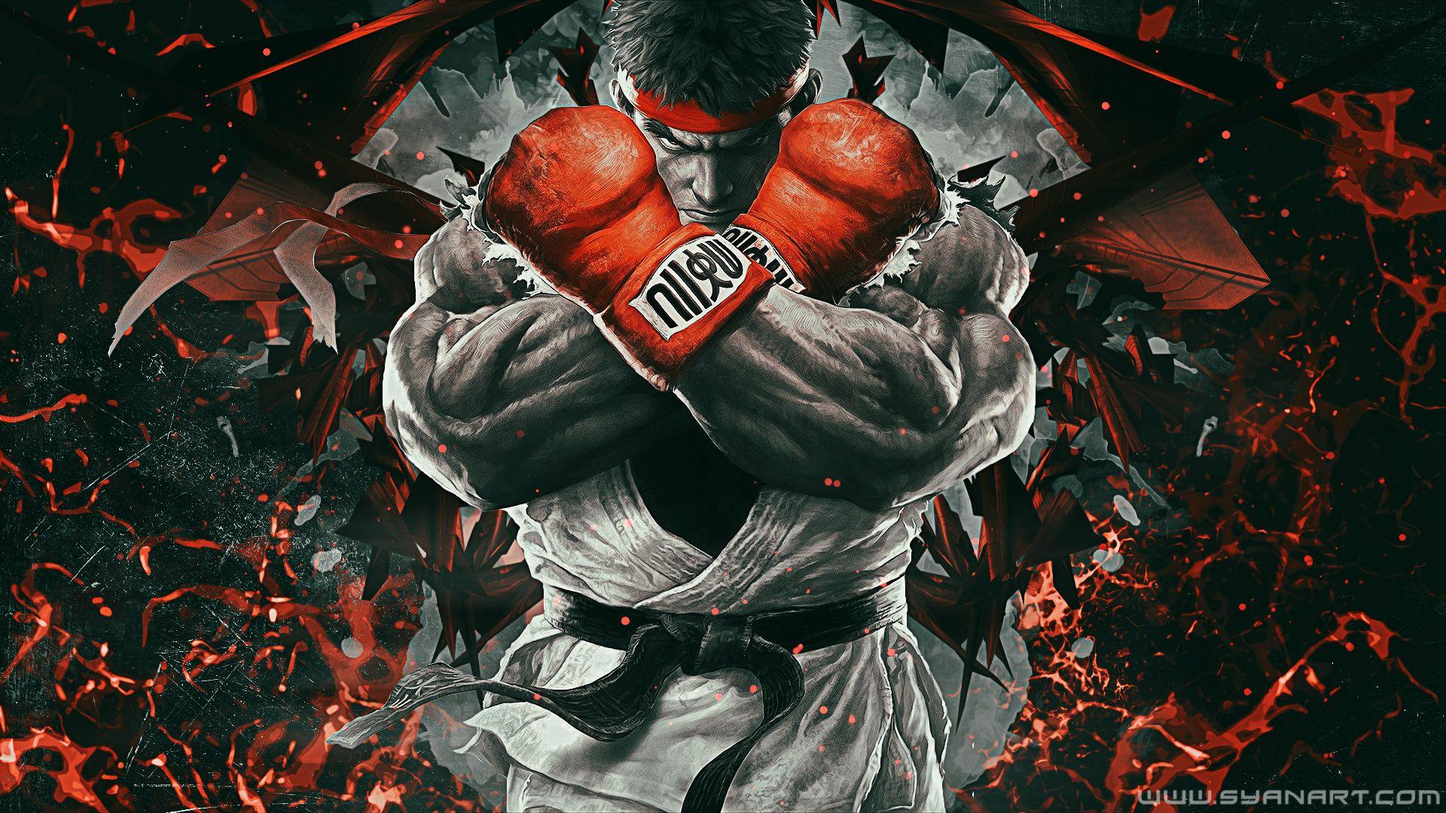
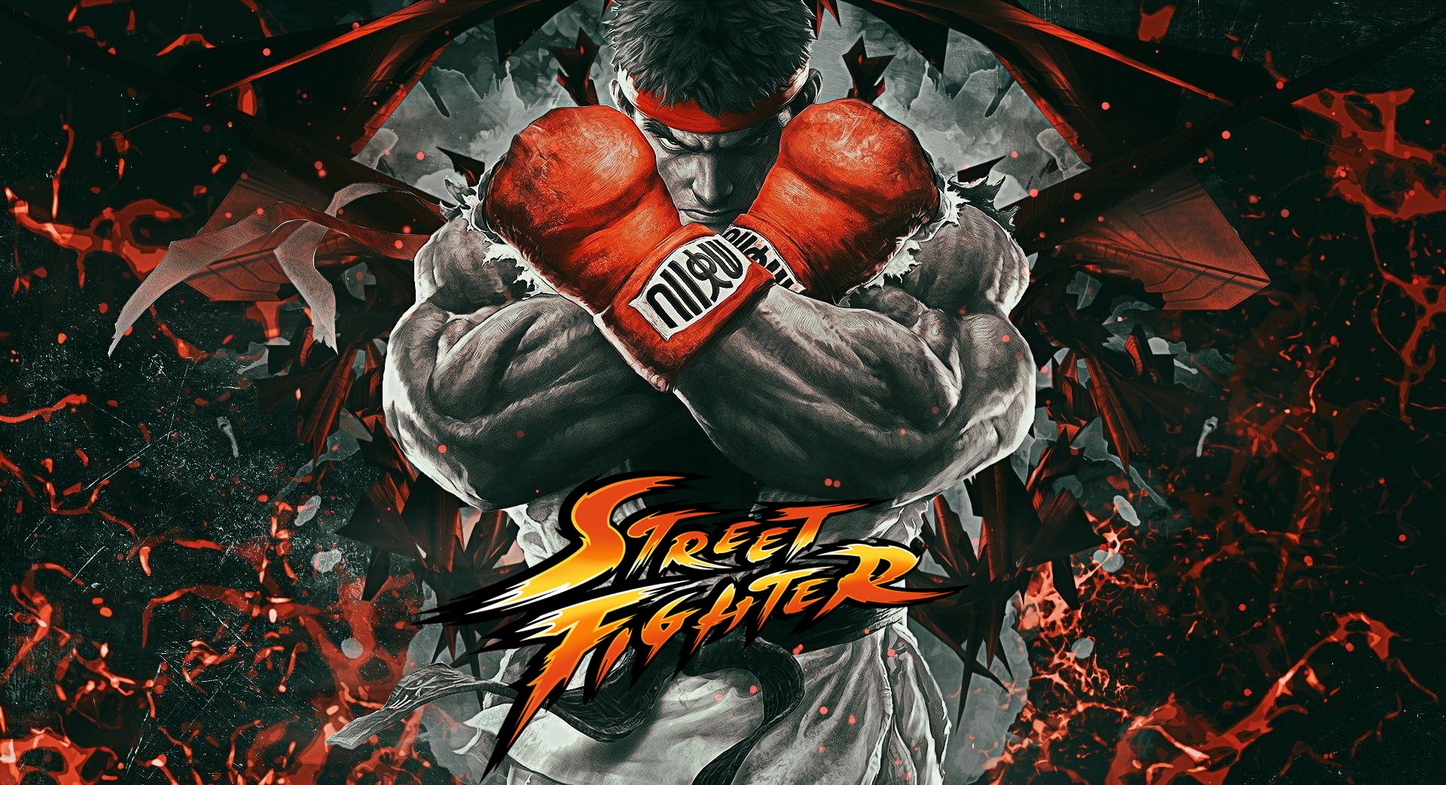
Added start page

diff --git a/JavaScript/script.js b/JavaScript/script.js
@@ -671,7 +671,7 @@ function animate() {
         ctx.drawImage(playerImage, framex, framey, spriteWidth, spriteHeight, 50, 50, CANVAS_WIDTH - 50, CANVAS_HEIGHT - 50);
         ctx2.drawImage(playerImage2, framex2, framey2, spriteWidth2, spriteHeight2, 50, 50, CANVAS_WIDTH - 50, CANVAS_HEIGHT - 50);
         canvas2.style.transform = "scale(-1,1)";
-        
+
         update();
     }
 
@@ -719,18 +719,17 @@ function propertiesDisplayNormal() {
     playerOneName.style.display = 'block';
     playerTwoName.style.display = 'block';
     readyWinContainer.style.display = 'flex';
-    // startPage.style.display = 'none';
+    startPage.style.display = 'none';
     animate();
-    startTimer();    
+    startTimer();
 }
 
-propertiesDisplayNormal();
+// propertiesDisplayNormal();
 
-// window.addEventListener('keydown', (e) => {
-//     if(e.key == 'p') {
-//         propertiesDisplayNormal();
-//     }
-// })
+startPage.addEventListener('click', (e) => {
+
+    propertiesDisplayNormal();
+})
 
 
 // animate();

diff --git a/stylesheet/styles.css b/stylesheet/styles.css
@@ -143,6 +143,33 @@ body {
 
 /* Start Page */
 
+#start-page {
+    position: absolute;
+    width: 100%;
+    height: 100%;
+    background: url(/images/startPage/startPageBackground.jpg);
+    background-size: 100%;
+}
+
+#start-page p {
+    color: white;
+    text-align: center;
+    font-size: xx-large;
+    font-family: 'Press Start 2P', cursive;
+    /* color: rgb(226, 59, 87); */
+    color: orange;
+
+}
+
+@keyframes fade-inout{
+    0% {opacity: 1;}
+    100%{opacity: 0;}
+}
+
+#start-page p {
+    animation: fade-inout 1.5s infinite alternate;
+}
+
 /* #start-page {
     position: absolute;
     width: 100%;

diff --git a/index.html b/index.html
@@ -38,6 +38,10 @@
     <div id="timer-container">
         <div id="timer">60</div>
     </div>
+    
+    <div id="start-page">
+        <p><b>Press anywhere  to continue</b></p>
+    </div>
 
     <!-- <div id="start-page">
         <div id="flex-container">
